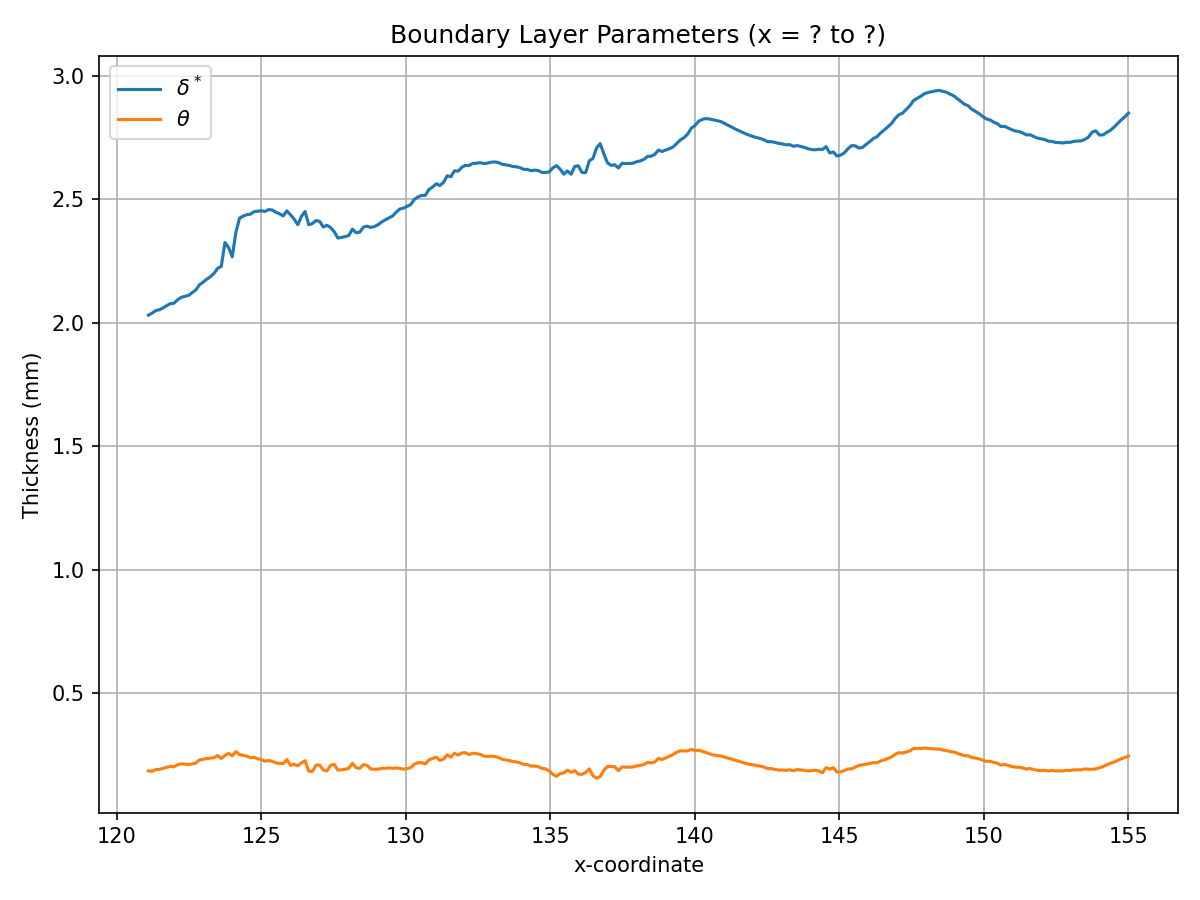
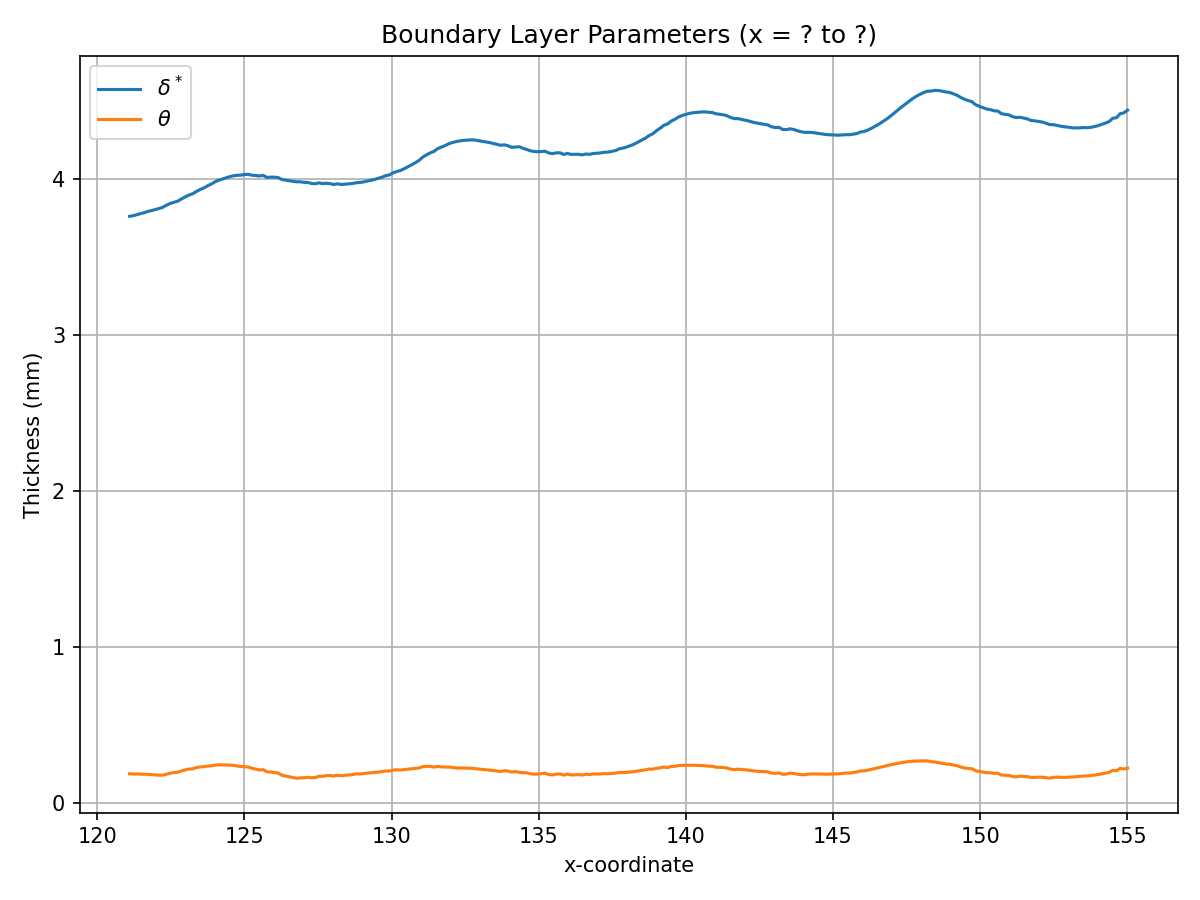
commit 28.04 9AM

diff --git a/Boundary_Layer_Characterization.py b/Boundary_Layer_Characterization.py
@@ -85,9 +85,9 @@ def main():
     # Each file can contain multiple x-stations, so we get arrays of x, delta*, theta
     for i in range(1, 25):
         # Filenames for u and v
-        file_u = os.path.join(data_dir, f"Case_CC_Span_{i}.txt_u.csv")
-        file_v = os.path.join(data_dir, f"Case_CC_Span_{i}.txt_v.csv")
-        file_vort = os.path.join( f"./Vorticity/Case_CC_Span_{i}.txt_vorticity.csv")
+        file_u = os.path.join(data_dir, f"Case_SC_Span_{i}.txt_u.csv")
+        file_v = os.path.join(data_dir, f"Case_SC_Span_{i}.txt_v.csv")
+        file_vort = os.path.join( f"./Vorticity/Case_SC_Span_{i}.txt_vorticity.csv")
         # --- READ THE U-COMPONENT CSV ---
         # We assume the CSV is structured such that:
         #   - row 0: [NaN, x1, x2, x3, ...]
@@ -134,6 +134,10 @@ def main():
             u_e = get_u_e(ix+30,file_vort,file_u)
 
             # Compute boundary-layer parameters
+            print()
+            print("VEL PROFILE: ", u_profile)
+            print("Free stream: ", u_e)
+            print()
             dstar, th = compute_boundary_layer_params(y_coords_m, u_profile, u_e)
             dstar = dstar * 1000.0
             th = th * 1000.0
@@ -180,7 +184,7 @@ def main():
         #plt.show()
 
         # Save in the "plots" folder
-        plot_dir = "BL_plots"
+        plot_dir = "BL_plots_SC"
         outname = os.path.join(plot_dir, f"BL_Parameters_Case_{i}.png")
         plt.savefig(outname, dpi=150)
         plt.close()
